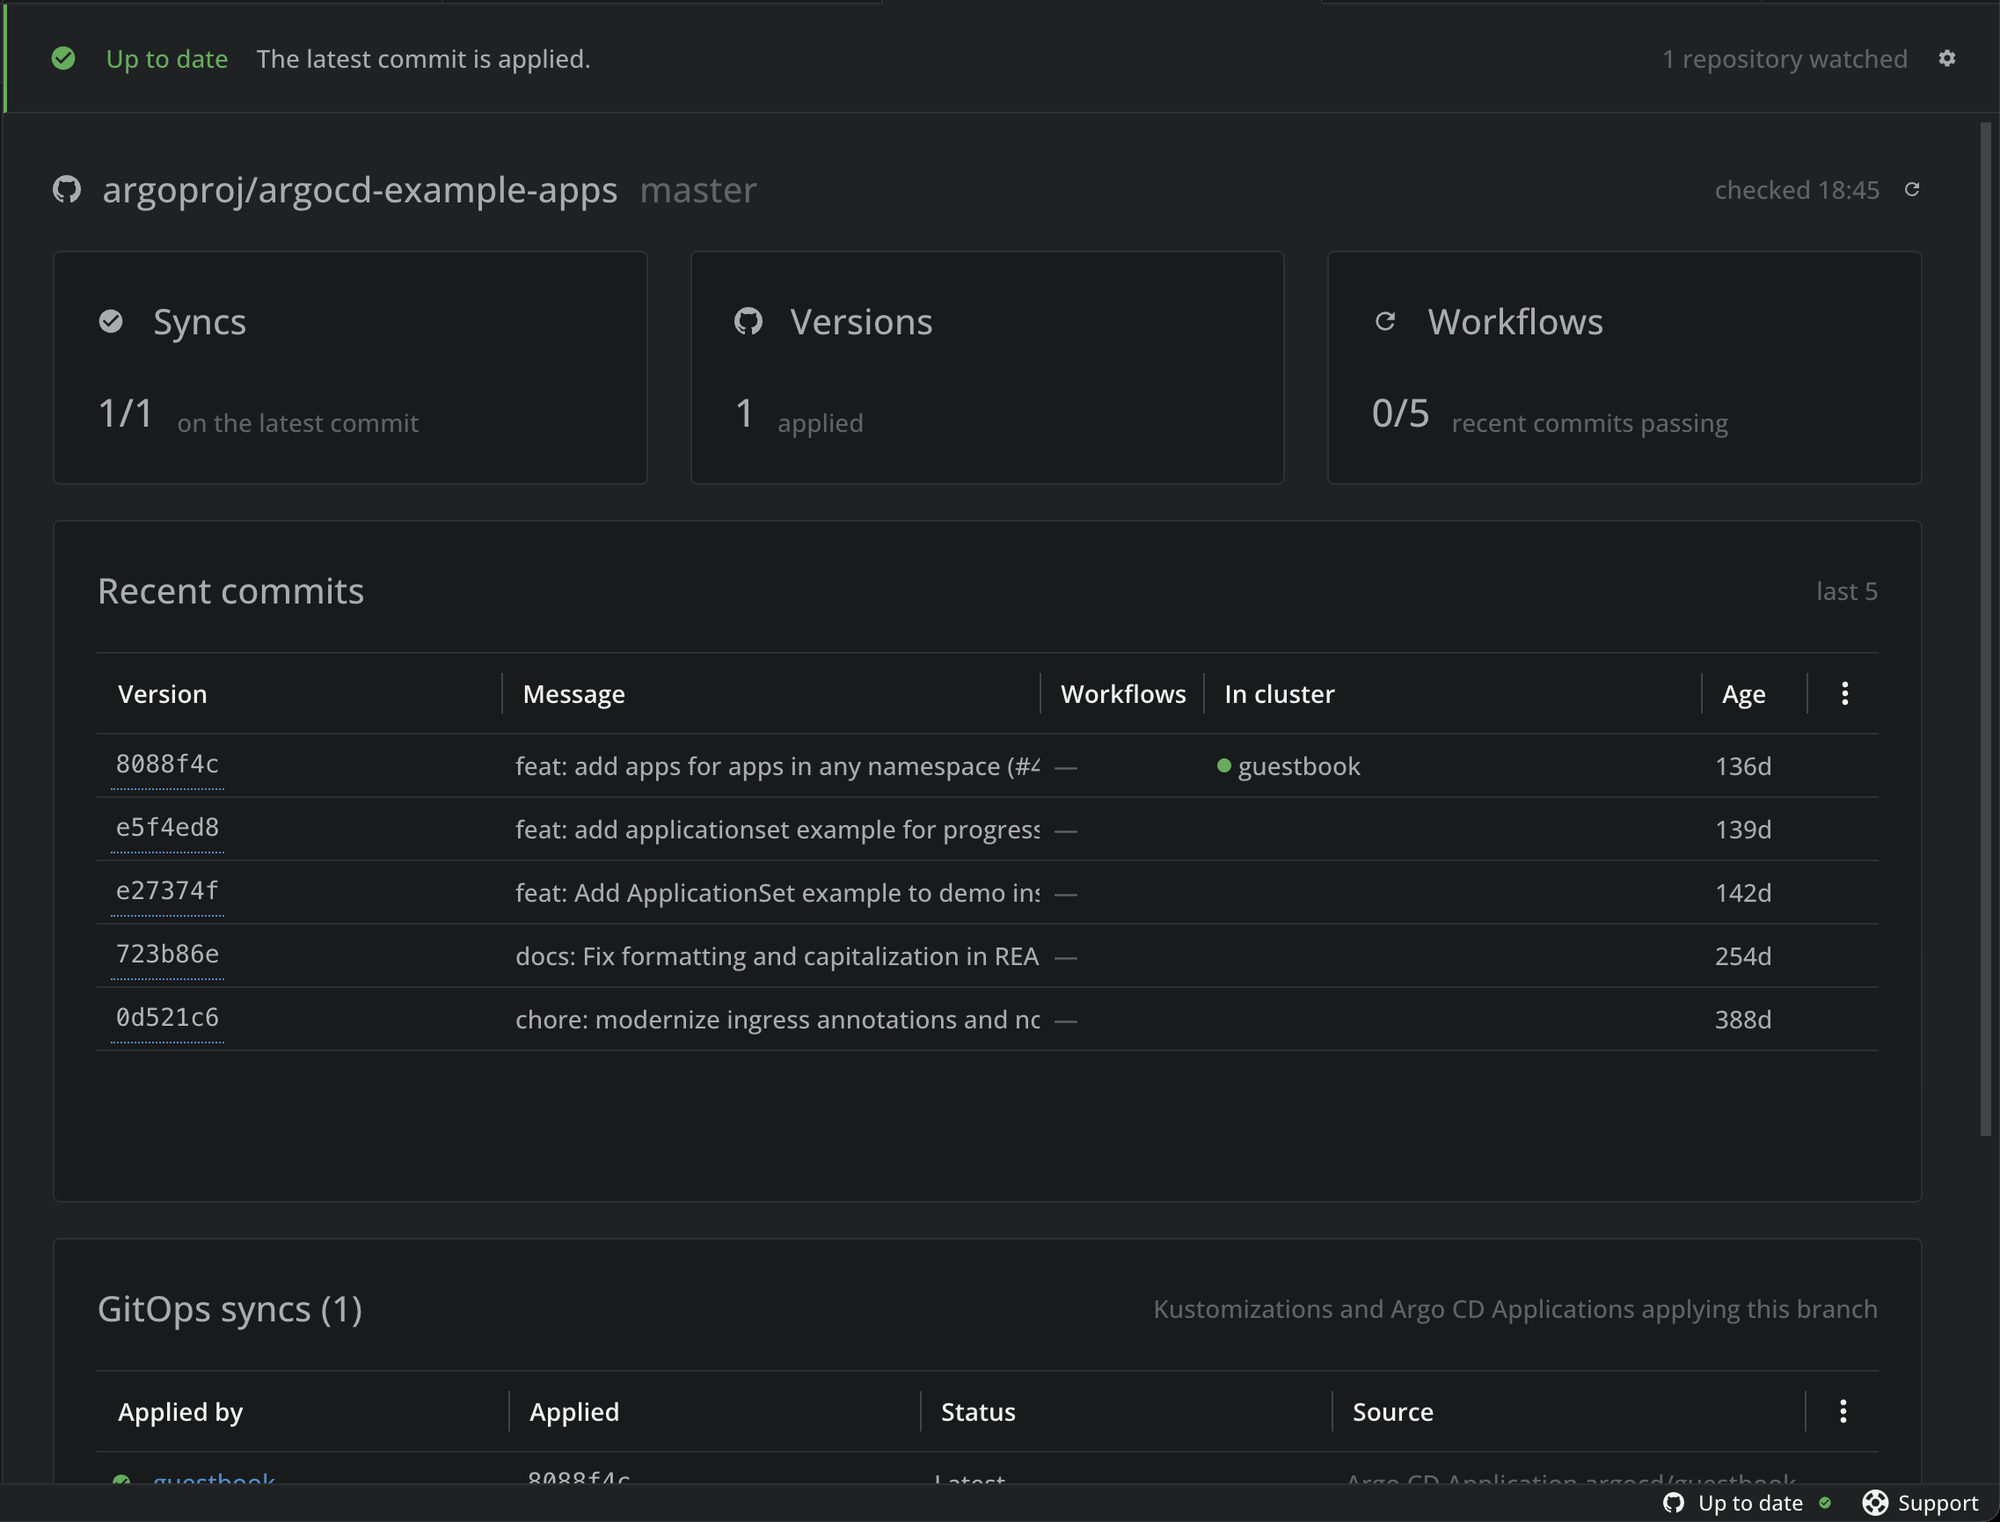
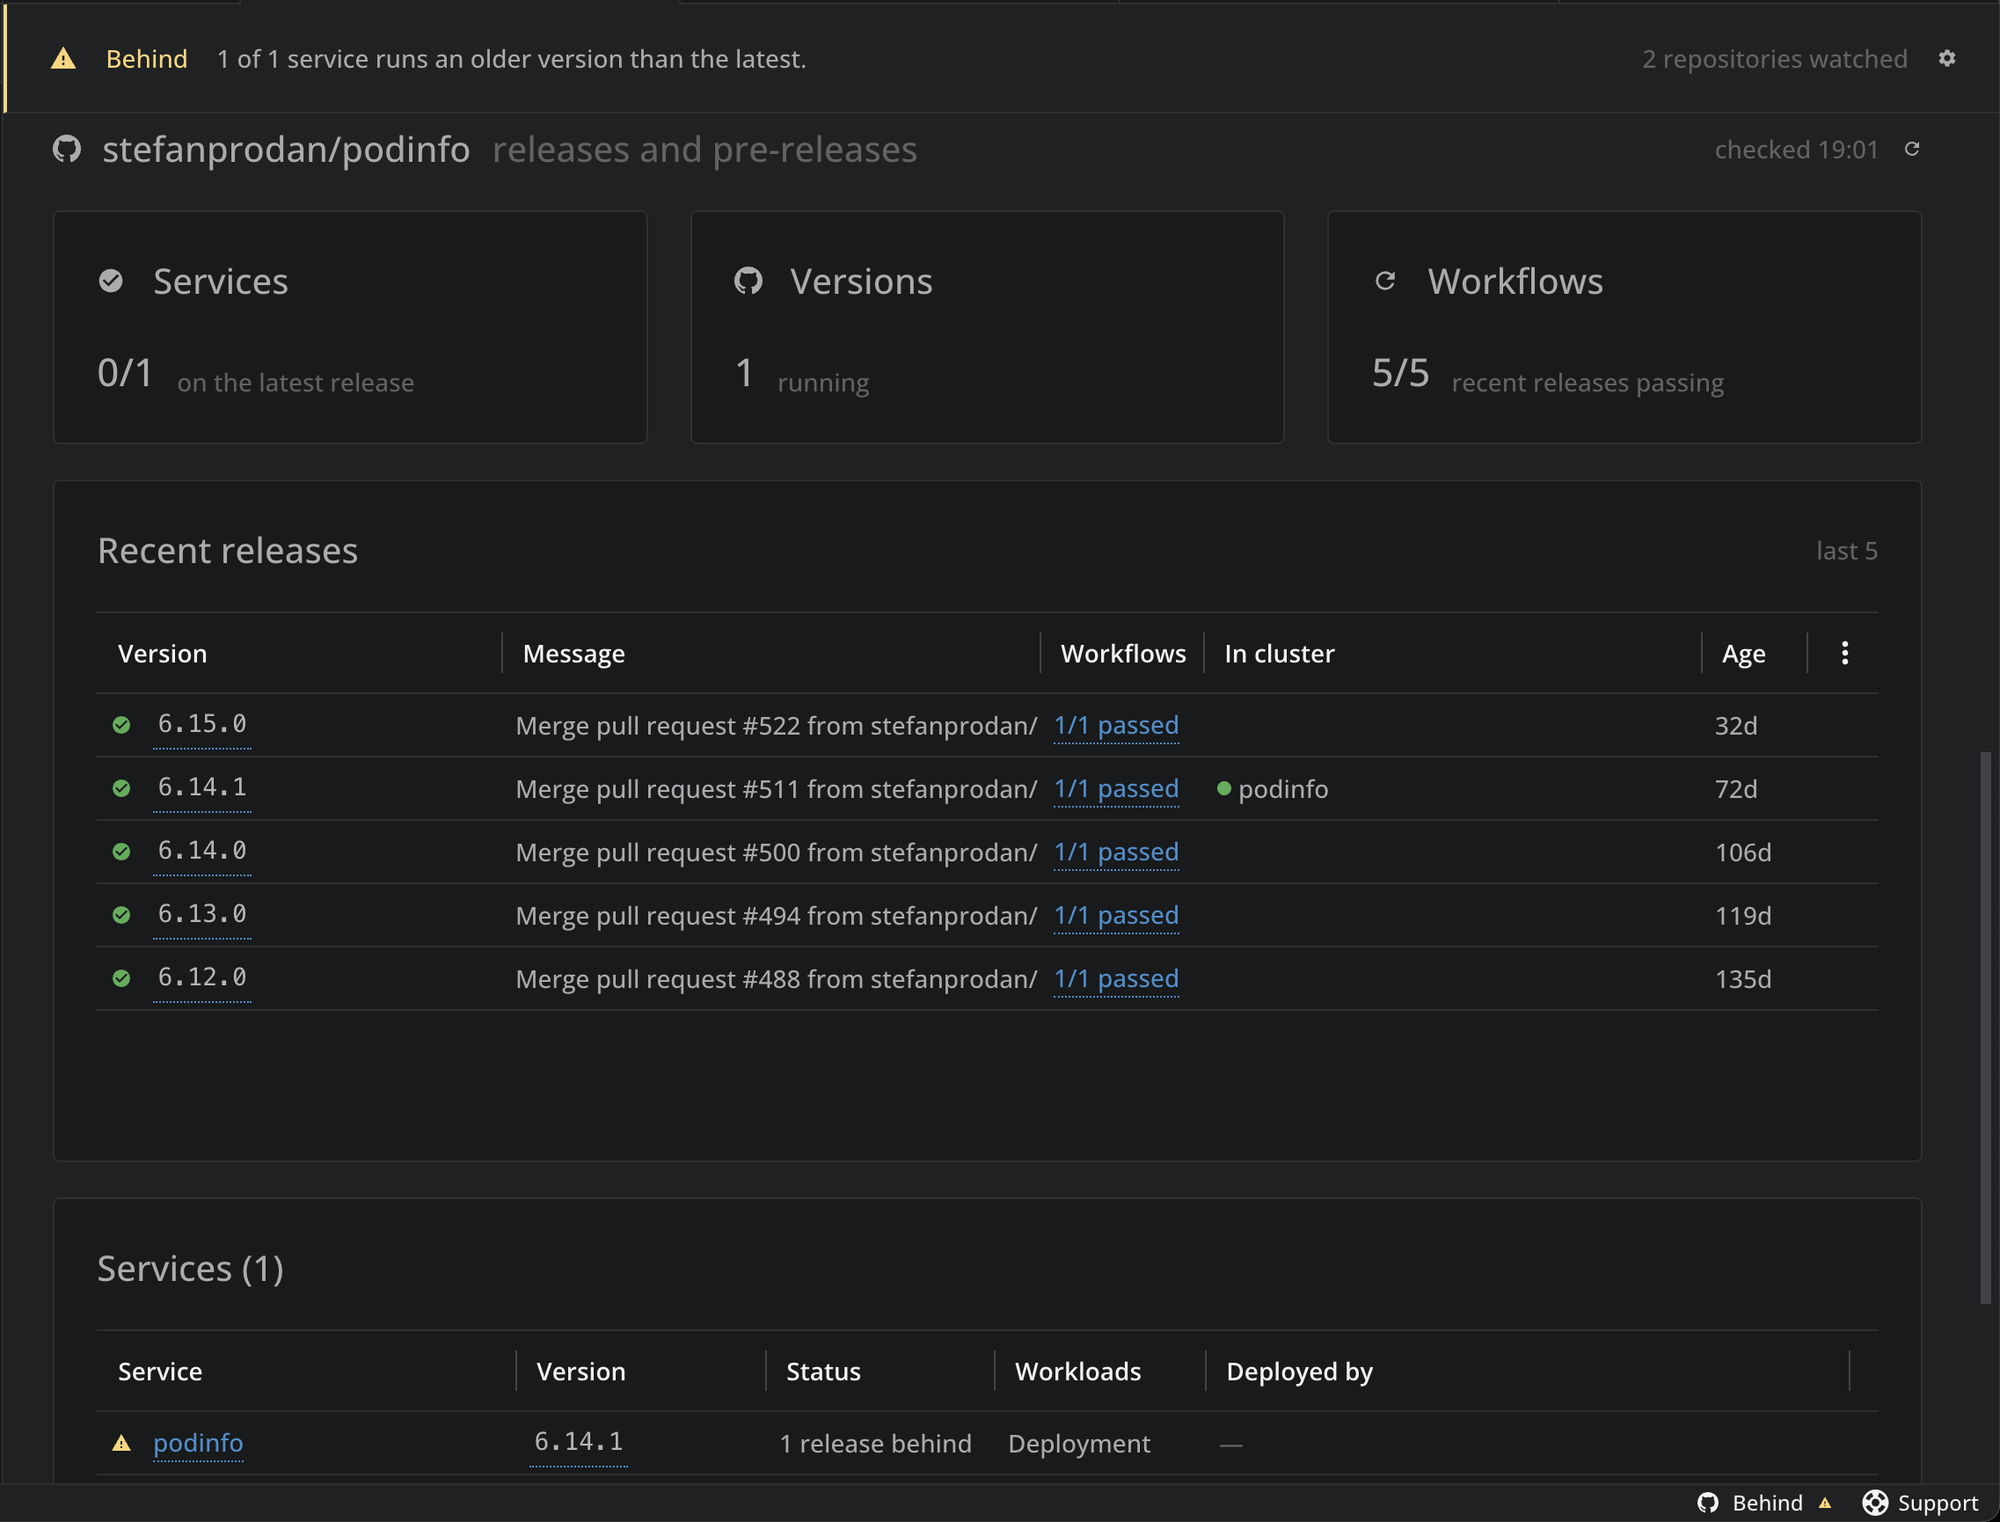
Show a dashboard with a service behind in the README

diff --git a/README.md b/README.md
@@ -2,7 +2,7 @@
 
 Keep an eye on the GitHub Actions workflow runs behind each of your clusters, without leaving Lens.
 
-![A cluster's dashboard, following a repository applied by Argo CD](assets/dashboard.png)
+![A cluster's dashboard: a service one release behind the latest, and the workflows of each release](assets/dashboard.png)
 
 ## Features
 
